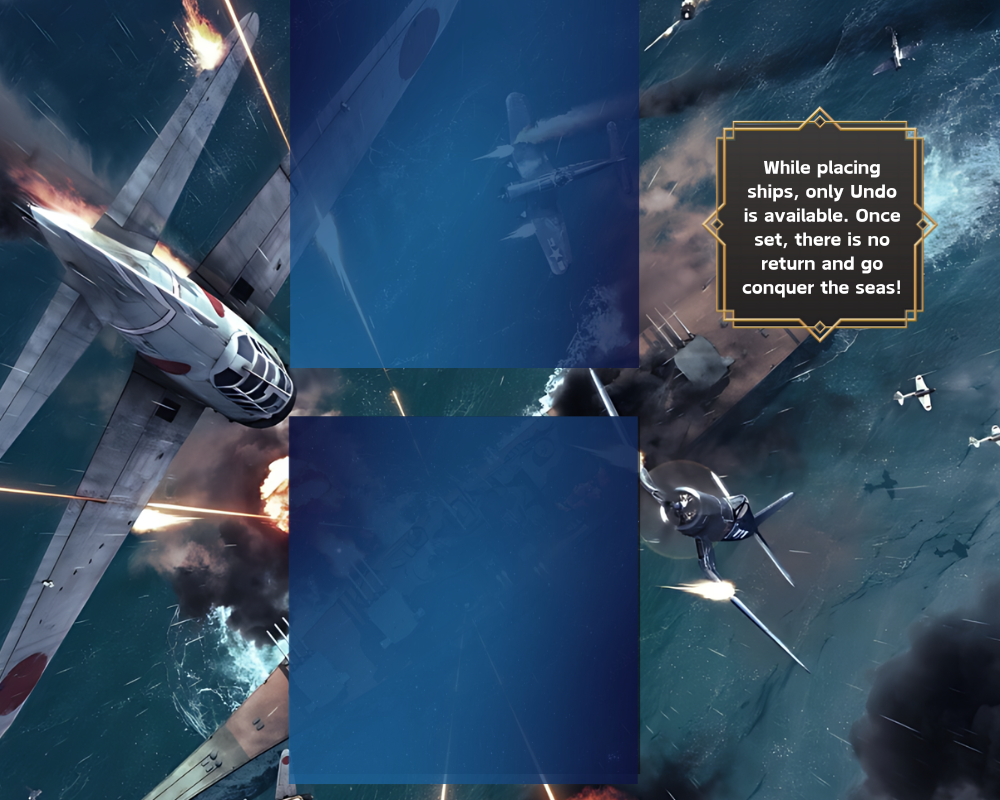
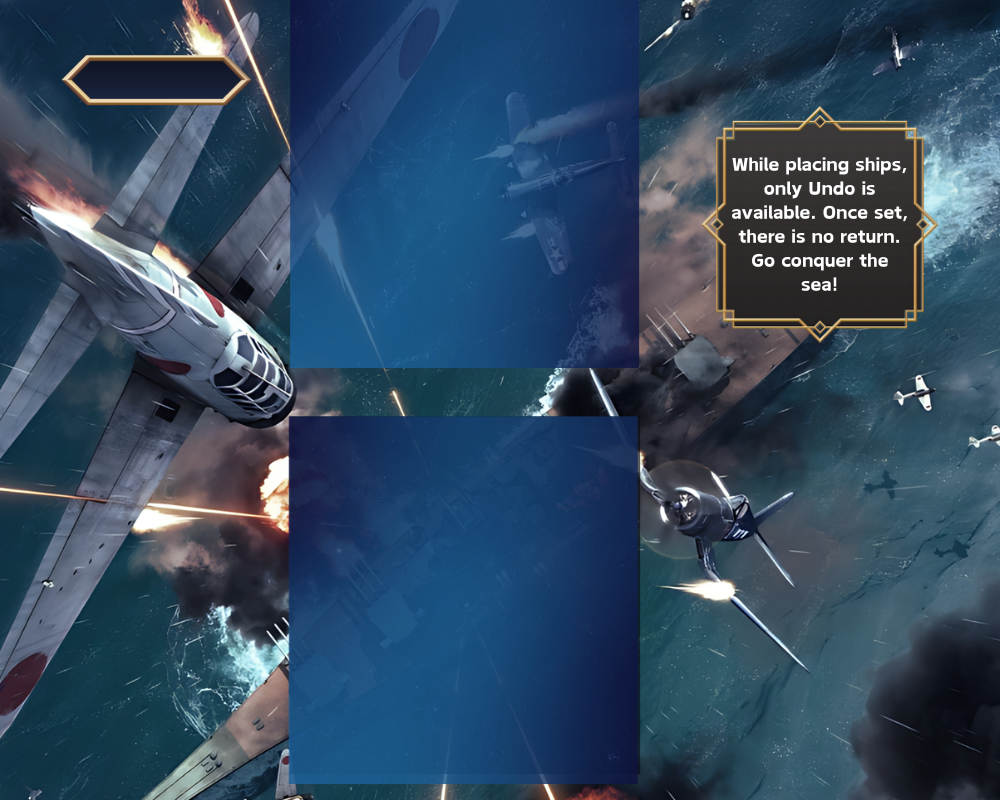
update UI

Changed region(s): [[0.713, 0.1875, 0.899, 0.375], [0.062, 0.0625, 0.248, 0.1562]]

diff --git a/src/Game/GamePanel.java b/src/Game/GamePanel.java
@@ -90,7 +90,7 @@ public class GamePanel extends JPanel implements MouseListener, MouseMotionListe
         restartButton.setMargin(new Insets(0, 0, 0, 0));
         restartButton.setBorder(null);
         restartButton.setContentAreaFilled(false);
-        restartButton.setBounds(820, 13, 280, 50);
+        restartButton.setBounds(870, 13, 60, 50);
         restartButton.addActionListener(e -> restart());
         buttonPanel.add(restartButton, BorderLayout.EAST);
 
@@ -151,7 +151,7 @@ public class GamePanel extends JPanel implements MouseListener, MouseMotionListe
         exitButton.setMargin(new Insets(0, 0, 0, 0));
         exitButton.setBorder(null);
         exitButton.setContentAreaFilled(false);
-        exitButton.setBounds(680, 670, 275, 41);
+        exitButton.setBounds(930, 13, 60, 50);
         exitButton.addActionListener(e -> exitToStartWindow());
         buttonPanel.add(exitButton, BorderLayout.EAST);
 
@@ -218,7 +218,7 @@ public class GamePanel extends JPanel implements MouseListener, MouseMotionListe
         g.setColor(Color.WHITE);
         g.setFont(new Font("Efour Digital Pro", Font.BOLD, 30));
         String timerText = "Time: " + countdown + "s";
-        g.drawString(timerText, getWidth() - 210, 50);
+        g.drawString(timerText, 85, 85);
     }
 
     private void startGameTimer() {
